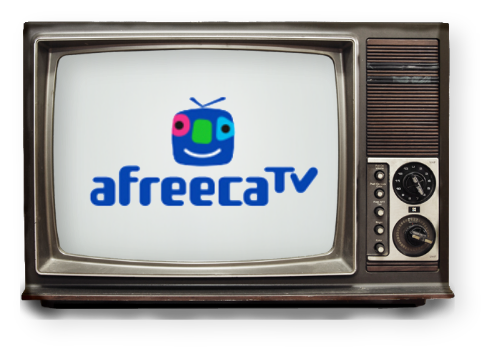
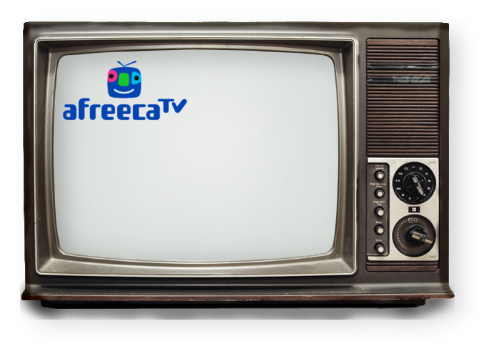
자유게시판 - 상단 티비 이미지 안에 당일 최고 시청자수 차지한 크리에이터 프로필 사진 넣기 (#220)
* Add: 방송정보페이지 구현중 1차 커밋

* Fix: 싸우지말고잘지내자 이미지로 대체, 테마변경 버튼 -> 아이콘버튼

* Add: 크리에이터 방송 정보 목록 좋아요 제외 구현

* Add: 방송 정보 - 방송 반응좋아요/싫어요 엔터티, 실 데이터 연동 추가

* Add: 방송정보 - 아프리카 light 백그라운드 로고 추가

* Fix: 헤더 데코레이터 가운데정렬

* Squashed commit of the following:

commit f4f6c7c747cbe0febf0600b7edc7801b4819a698
Author: hwasurr <iamsupermazinga@gmail.com>
Date:   Thu Apr 22 10:25:59 2021 +0900

    Chore: remove unused variable

commit e9f4c7142f8dc5b174380409cd9493efad27c3ba
Author: hwasurr <iamsupermazinga@gmail.com>
Date:   Thu Apr 22 10:25:12 2021 +0900

    Add: 크리에이터 필터링 추가

commit 0f9cca38a2f707fa5731cc0f8121cfe5abeb2195
Author: hwasurr <iamsupermazinga@gmail.com>
Date:   Thu Apr 22 10:12:12 2021 +0900

    Fix: 개별 크리에이터 페이지 history state -> 개별 데이터 요청으로 수정

commit 6dfcf4cf0bcdb3c56455129a03b9d4d378e891d0
Author: iamsupermazinga <iamsupermazinga@gmail.com>
Date:   Wed Apr 21 23:28:43 2021 +0900

    Update: 개별 유저 정보 새로운 페이지로 옮김

commit 1a4aaa57a6f9c373799750e7f60f7e24a44c3667
Author: hwasurr <iamsupermazinga@gmail.com>
Date:   Wed Apr 21 18:04:30 2021 +0900

    Add: 유저 정보 추가 작업 진행 중, 라이트/다크테마 배경 이미지 업로드 작업 남음

commit 63eb2be00b6ee509ab6a30d5f14fbc10560d3702
Author: iamsupermazinga <iamsupermazinga@gmail.com>
Date:   Tue Apr 20 21:27:20 2021 +0900

    Fix: entity 변경에 따른 수정

commit 5e9fd43f60229c80aab53676ab1645b0600311e2
Author: iamsupermazinga <iamsupermazinga@gmail.com>
Date:   Tue Apr 20 21:23:19 2021 +0900

    Update: User - platform 관계설정 작업
[…]

Changed region(s): [[0.1212, 0.1524, 0.6667, 0.5789]]

diff --git a/server/src/resources/broadcast-info/broadcast-info.controller.ts b/server/src/resources/broadcast-info/broadcast-info.controller.ts
@@ -1,8 +1,9 @@
+import { TodayTopViewerUsersRes } from '@truepoint/shared/dist/res/TodayTopViewerUsersRes.interface';
+import { CreateStreamVoteDto } from '@truepoint/shared/dist/dto/broadcast-info/CreateStreamVote.dto';
 import {
   Body,
   Controller, Delete, Get, Ip, Param, ParseIntPipe, Post, Query,
 } from '@nestjs/common';
-import { CreateStreamVoteDto } from '@truepoint/shared/dist/dto/broadcast-info/CreateStreamVote.dto';
 import { FindOneStreamDto } from '@truepoint/shared/dist/dto/broadcast-info/FindOneStream.dto';
 import { SearchCalendarStreams } from '@truepoint/shared/dist/dto/stream-analysis/searchCalendarStreams.dto';
 import { BroadcastDataForDownload } from '@truepoint/shared/dist/interfaces/BroadcastDataForDownload.interface';
@@ -35,16 +36,6 @@ export class BroadcastInfoController {
     );
   }
 
-  @Post('vote')
-  vote(@Ip() ip: string, @Body(ValidationPipe) dto: CreateStreamVoteDto): Promise<number> {
-    return this.broadcastService.vote({ ...dto, ip });
-  }
-
-  @Delete('vote')
-  cancelVote(@Query('id') id: number): Promise<number> {
-    return this.broadcastService.cancelVote(id);
-  }
-
   /**
    * 해당 크리에이터의 최근 방송 정보를 가져옵니다.
    * creatorId (twitch, afreeca 고유 ID) 를 통해 방송 목록을 가져옵니다.
@@ -61,6 +52,26 @@ export class BroadcastInfoController {
   }
 
   /**
+   * 방송에 대한 좋아요 / 싫어요를 추가합니다.
+   * @param ip 요청자 IP
+   * @param dto CreateSteramVoteDto
+   * @returns 1 | 0
+   */
+  @Post('vote')
+  vote(@Ip() ip: string, @Body(ValidationPipe) dto: CreateStreamVoteDto): Promise<number> {
+    return this.broadcastService.vote({ ...dto, ip });
+  }
+
+  /**
+   * 방송에대한 좋아요 / 싫어요를 삭제합니다.
+   * @param id 삭제할 vote의 고유ID
+   */
+  @Delete('vote')
+  cancelVote(@Query('id') id: number): Promise<number> {
+    return this.broadcastService.cancelVote(id);
+  }
+
+  /**
    * 관리자페이지 이용자정보 조회탭에서 사용
    * userId를 받아 해당 유저의 전체 방송 목록 조회
    * @param userId 방송목록 조회할 유저의 userId
@@ -71,7 +82,30 @@ export class BroadcastInfoController {
   }
 
   /**
-   * 
+   * 플랫폼(아프리카/트위치) 별로 오늘 최고 시청자를 기록한 유저정보를 가져옵니다.
+   * @returns {TodayTopViewerUsersRes}
+   * @example 데이터 예시 [
+      {
+          "creatorId": "joey1114",
+          "platform": "afreeca",
+          "nickName": "저라뎃",
+          "viewer": 18056
+      },
+      {
+          "creatorId": "597621638",
+          "platform": "twitch",
+          "nickName": "소행성612",
+          "viewer": 12826
+      }
+    ]
+   */
+  @Get('today-top-viewer')
+  getTodayTopViewerUserByPlatform(): Promise<TodayTopViewerUsersRes> {
+    return this.broadcastService.getTodayTopViewerUserByPlatform();
+  }
+
+  /**
+   * 1개의 스트림에 대한 정보를 반환
    * @param platform twitch | afreeca
    * @param streamId 
    * @returns 

diff --git a/server/src/resources/broadcast-info/broadcast-info.service.ts b/server/src/resources/broadcast-info/broadcast-info.service.ts
@@ -14,6 +14,9 @@ import { CreateStreamVoteDto } from '@truepoint/shared/dto/broadcast-info/Create
 import { StreamsEntity } from './entities/streams.entity';
 import { StreamSummaryEntity } from './entities/streamSummary.entity';
 import { StreamVotesEntity } from './entities/streamVotes.entity';
+import { UserEntity } from '../users/entities/user.entity';
+import { PlatformAfreecaEntity } from '../users/entities/platformAfreeca.entity';
+import { PlatformTwitchEntity } from '../users/entities/platformTwitch.entity';
 
 Injectable();
 export class BroadcastInfoService {
@@ -25,6 +28,12 @@ export class BroadcastInfoService {
     private readonly streamsRepository: Repository<StreamsEntity>,
     @InjectRepository(StreamVotesEntity)
     private readonly streamVoteRepo: Repository<StreamVotesEntity>,
+    @InjectRepository(PlatformAfreecaEntity)
+    private readonly afreecaRepo: Repository<PlatformAfreecaEntity>,
+    @InjectRepository(PlatformTwitchEntity)
+    private readonly twitchRepo: Repository<PlatformTwitchEntity>,
+    @InjectRepository(UserEntity)
+    private readonly userRepo: Repository<UserEntity>,
   ) {
     this.streamsTableName = this.configService.get('NODE_ENV') === 'production' ? this.streamsRepository.metadata.tableName : 'Streams';
   }
@@ -142,12 +151,23 @@ export class BroadcastInfoService {
     return this.streamVoteRepo.count({ vote: dto.vote === 'up' });
   }
 
+  /**
+   * 좋아요/싫어요를 취소합니다.
+   * @param id 취소할 vote아이디
+   * @returns 1 | 0
+   */
   async cancelVote(id: number): Promise<number> {
     // 1. vote 취소
     const result = await this.streamVoteRepo.delete(id);
     return result.affected;
   }
 
+  /**
+   * 해당 방송에 해당 IP를 가진 유저가 진행한 좋아요/싫어요 내역을 조회합니다.
+   * @param ip 요청자 IP
+   * @param streamId 좋아요/싫어요 표시한 방송ID
+   * @returns StreamVoteEntity
+   */
   async checkIsVotedByIp(ip: string, streamId: string): Promise<StreamVotesEntity> {
     return this.streamVoteRepo.findOne({
       where: {
@@ -158,5 +178,22 @@ export class BroadcastInfoService {
         createDate: 'DESC',
       },
     });
+  }
+
+  async getTodayTopViewerUserByPlatform(): Promise<any> {
+    const result = await this.streamsRepository.createQueryBuilder('stream')
+      .innerJoin(UserEntity, 'u', 'u.userId = stream.userId')
+      .leftJoin(PlatformAfreecaEntity, 'a', 'a.afreecaId = u.userId')
+      .leftJoin(PlatformTwitchEntity, 't', 't.twitchChannelName = u.userId')
+      .select(['creatorId', 'platform', 'nickName'])
+      .groupBy('stream.platform')
+      .addSelect('max(viewer)', 'viewer')
+      .addSelect('a.logo', 'afreecaLogo')
+      .addSelect('t.logo', 'twitchLogo')
+      // .where('"2021-04-19" = DATE(stream.startDate)') // 테스트용 (오늘데이터가 없어 확인불가하여 테스트용으로 하드코딩)
+      .where('CURDATE() = DATE(stream.startDate)') // 배포용
+      .execute();
+
+    return result;
   }
 }

diff --git a/client/web/src/organisms/mainpage/communityBoard/list/BoardHeaderImage.tsx b/client/web/src/organisms/mainpage/communityBoard/list/BoardHeaderImage.tsx
@@ -1,6 +1,8 @@
-import React from 'react';
+import { TodayTopViewerUsersRes } from '@truepoint/shared/dist/res/TodayTopViewerUsersRes.interface';
+import React, { useMemo } from 'react';
 import { makeStyles, createStyles, Theme } from '@material-ui/core/styles';
 import classnames from 'classnames';
+import useAxios from 'axios-hooks';
 
 const useStyles = makeStyles((theme: Theme) => createStyles({
   bg: {
@@ -12,29 +14,46 @@ const useStyles = makeStyles((theme: Theme) => createStyles({
     backgroundImage: 'url(/images/board/board_bg.png)',
     backgroundRepeat: 'repeat-x',
   },
-  tv: {
+  tvContainer: {
+    position: 'relative',
     width: '50%',
     height: '80%',
   },
-  afreeca: {
-    backgroundImage: 'url(/images/board/tv_afreeca.png)',
+  tv: {
     backgroundRepeat: 'no-repeat',
     backgroundPosition: '50% 0%',
+    position: 'absolute',
+    width: '100%',
+    height: '100%',
+  },
+  afreeca: {
+    backgroundImage: 'url(/images/board/tv_afreeca.png)',
   },
   twitch: {
     backgroundImage: 'url(/images/board/tv_twitch.png)',
-    backgroundRepeat: 'no-repeat',
-    backgroundPosition: '50% 0%',
+  },
+  userLogo: {
+    position: 'absolute', bottom: 16, left: 'calc(50% - 200px)', height: 230, width: 300,
   },
 }));
 
 export default function BoardHeaderImage(): JSX.Element {
   const classes = useStyles();
+  const [{ data }] = useAxios<TodayTopViewerUsersRes>('broadcast-info/today-top-viewer');
+
+  const twitchTopUser = useMemo(() => data?.find((x) => x.platform === 'twitch'), [data]);
+  const afreecaTopUser = useMemo(() => data?.find((x) => x.platform === 'afreeca'), [data]);
 
   return (
     <div className={classes.bg}>
-      <div className={classnames(classes.tv, classes.afreeca)} />
-      <div className={classnames(classes.tv, classes.twitch)} />
+      <div className={classes.tvContainer}>
+        <img src={afreecaTopUser?.afreecaLogo} alt="" className={classes.userLogo} />
+        <div className={classnames(classes.tv, classes.afreeca)} />
+      </div>
+      <div className={classes.tvContainer}>
+        <img src={twitchTopUser?.twitchLogo} alt="" className={classes.userLogo} />
+        <div className={classnames(classes.tv, classes.twitch)} />
+      </div>
     </div>
   );
 }

diff --git a/server/src/resources/broadcast-info/broadcast-info.module.ts b/server/src/resources/broadcast-info/broadcast-info.module.ts
@@ -7,9 +7,15 @@ import { BroadcastInfoController } from './broadcast-info.controller';
 import { StreamsEntity } from './entities/streams.entity';
 import { StreamSummaryEntity } from './entities/streamSummary.entity';
 import { StreamVotesEntity } from './entities/streamVotes.entity';
+import { PlatformAfreecaEntity } from '../users/entities/platformAfreeca.entity';
+import { PlatformTwitchEntity } from '../users/entities/platformTwitch.entity';
+import { UserEntity } from '../users/entities/user.entity';
 @Module({
   imports: [
-    TypeOrmModule.forFeature([StreamsEntity, StreamSummaryEntity, StreamVotesEntity]),
+    TypeOrmModule.forFeature([
+      StreamsEntity, StreamSummaryEntity, StreamVotesEntity,
+      PlatformAfreecaEntity, PlatformTwitchEntity, UserEntity,
+    ]),
     TypeOrmConfigService,
   ],
   controllers: [BroadcastInfoController],

diff --git a/server/src/middleware/colorizedMorgan.ts b/server/src/middleware/colorizedMorgan.ts
@@ -6,9 +6,9 @@ const colorizedMorgan = morgan((tokens, req, res) => {
   // Status
   const status = tokens.status(req, res);
   let statusText = chalk.bold(status);
-  if (status.startsWith('2')) statusText = chalk.green.bold(status);
-  if (status.startsWith('4')) statusText = chalk.hex('#ffb142').bold(status);
-  if (status.startsWith('5')) statusText = chalk.bgRed.bold(status);
+  if (status && status.startsWith('2')) statusText = chalk.green.bold(status);
+  if (status && status.startsWith('4')) statusText = chalk.hex('#ffb142').bold(status);
+  if (status && status.startsWith('5')) statusText = chalk.bgRed.bold(status);
 
   // **********************************************
   // Content Length

diff --git a/server/src/resources/broadcast-info/entities/streams.entity.ts b/server/src/resources/broadcast-info/entities/streams.entity.ts
@@ -4,7 +4,7 @@ import {
 import { Stream } from '@truepoint/shared/dist/interfaces/Stream.interface';
 import { StreamVotesEntity } from './streamVotes.entity';
 
-@Entity({ name: 'Streams_copy2' })
+@Entity({ name: 'Streams' })
 export class StreamsEntity implements Stream {
   @PrimaryColumn()
   streamId: string;

diff --git a/shared/res/TodayTopViewerUsersRes.interface.ts b/shared/res/TodayTopViewerUsersRes.interface.ts
@@ -1,0 +1,10 @@
+export interface TodayTopViewerUser {
+  nickname: string;
+  viewer: number;
+  platform: 'afreeca' | 'twitch';
+  creatorId: string;
+  afreecaLogo: string;
+  twitchLogo: string;
+}
+
+export type TodayTopViewerUsersRes = TodayTopViewerUser[];
